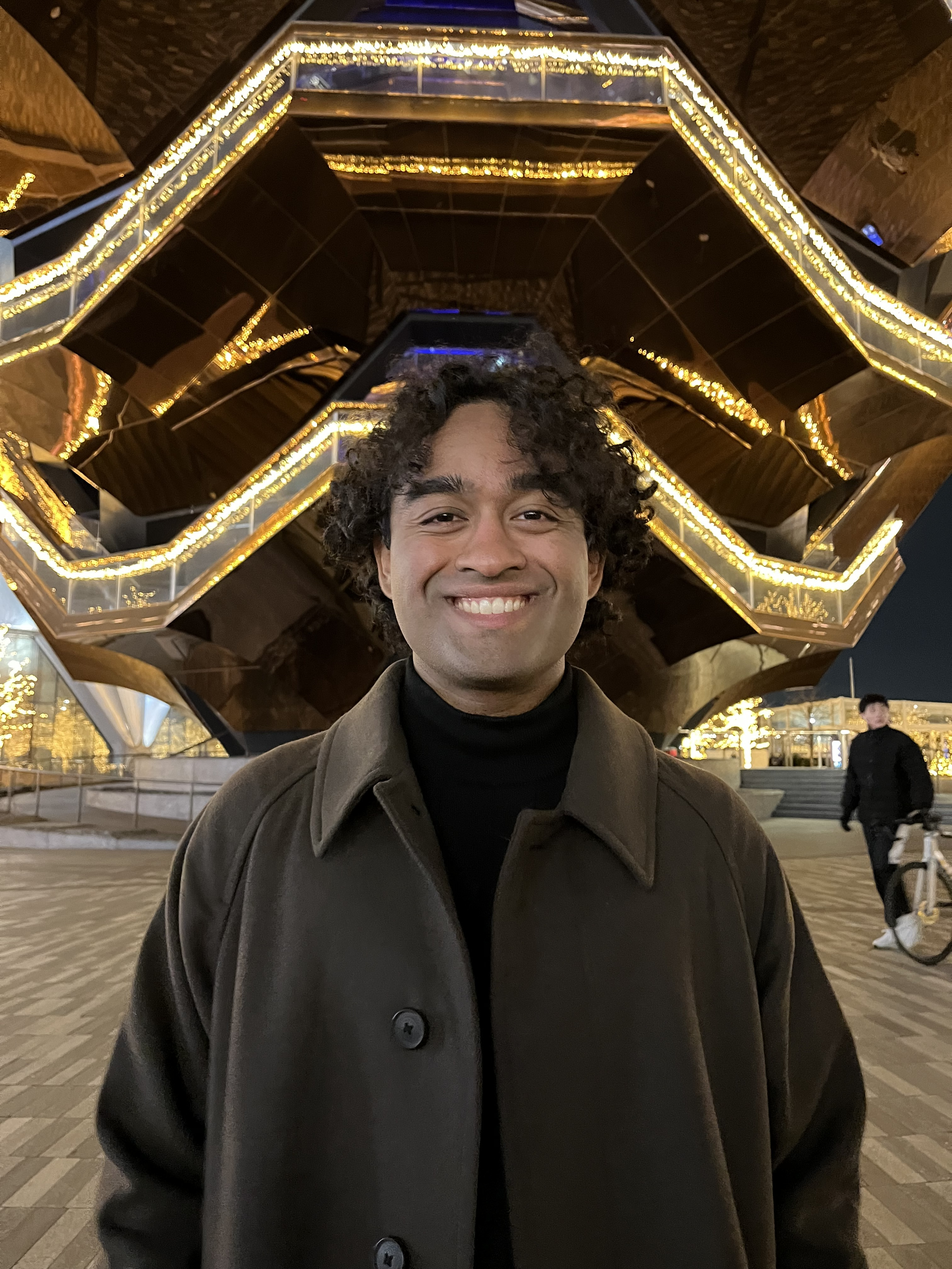
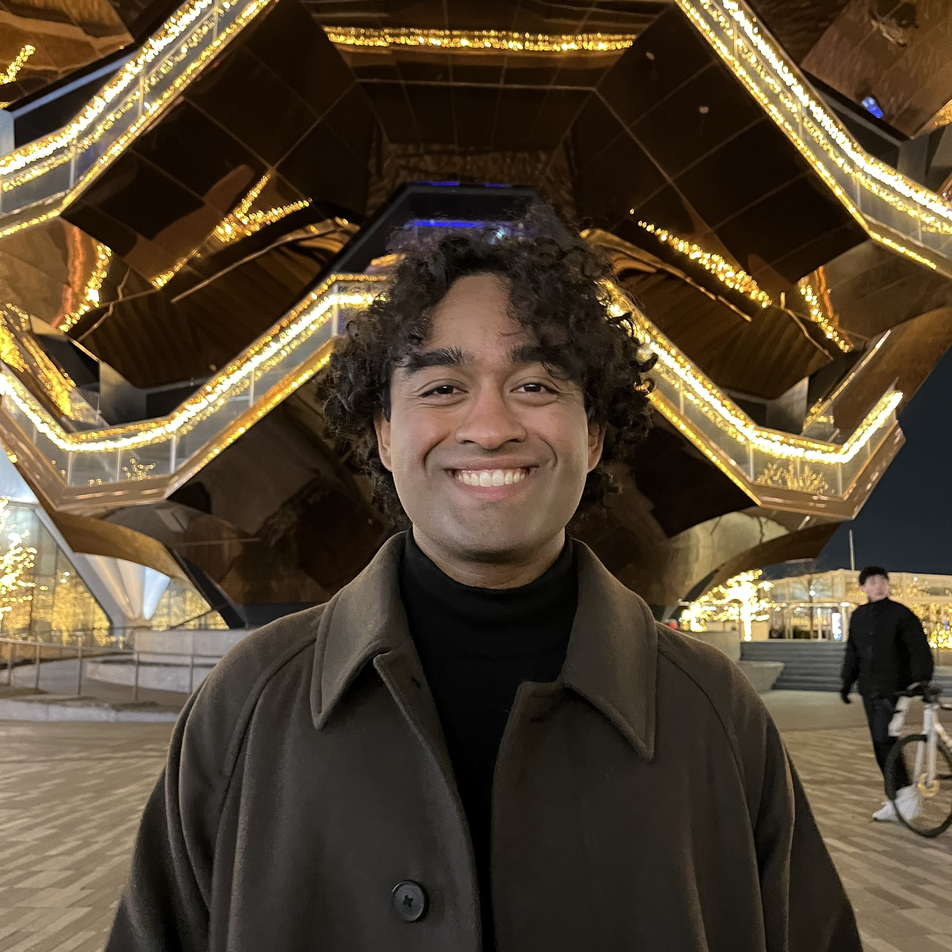
Uploaded new photos

diff --git a/src/app/contact/page.tsx b/src/app/contact/page.tsx
@@ -11,11 +11,11 @@ export default function Contact() {
   ];
 
   const pfps: string[] = [
-    'https://media.licdn.com/dms/image/C5603AQEzwiruaKNpXg/profile-displayphoto-shrink_400_400/0/1556665090299?e=1694044800&v=beta&t=RFpME37vVXJoUvrX4Y5rr_l8Nv92KRn9fzGolGphW5I',
-    'https://media.licdn.com/dms/image/D5603AQEpzbsGcibFlQ/profile-displayphoto-shrink_400_400/0/1685062093155?e=1694044800&v=beta&t=gcv99cCJBJR0KIFmNOB-U-W-01gnNwRvqm1s-xYjCLs',
-    'https://media.licdn.com/dms/image/C5603AQF5aVV5RPoSow/profile-displayphoto-shrink_800_800/0/1654820828871?e=1694044800&v=beta&t=poAJy-brOT9GucqFCPC8SpBXjaJFGx-tAs78DUAe2ZQ',
-    'https://media.licdn.com/dms/image/D5603AQHLbRShNvTnjQ/profile-displayphoto-shrink_400_400/0/1672523207183?e=1694044800&v=beta&t=e5RVgR1L1B_cMucacwBsQLbcLCX-P02_RqpWAB003MY',
-    'https://media.licdn.com/dms/image/C5603AQG6ZdZTqYG0kw/profile-displayphoto-shrink_400_400/0/1644888978375?e=1694044800&v=beta&t=EI1FPyDTxFoYNuQ1guPzQ_AX0Eqnzk8vy5QtqBo80Ds',
+    '/tom-pfp.jpeg',
+    '/justin-pfp.jpeg',
+    '/nitesh-pfp.jpeg',
+    '/donald-pfp.jpeg',
+    '/benson-pfp.jpeg',
   ];
 
   const linkedinUrls: string[] = [
